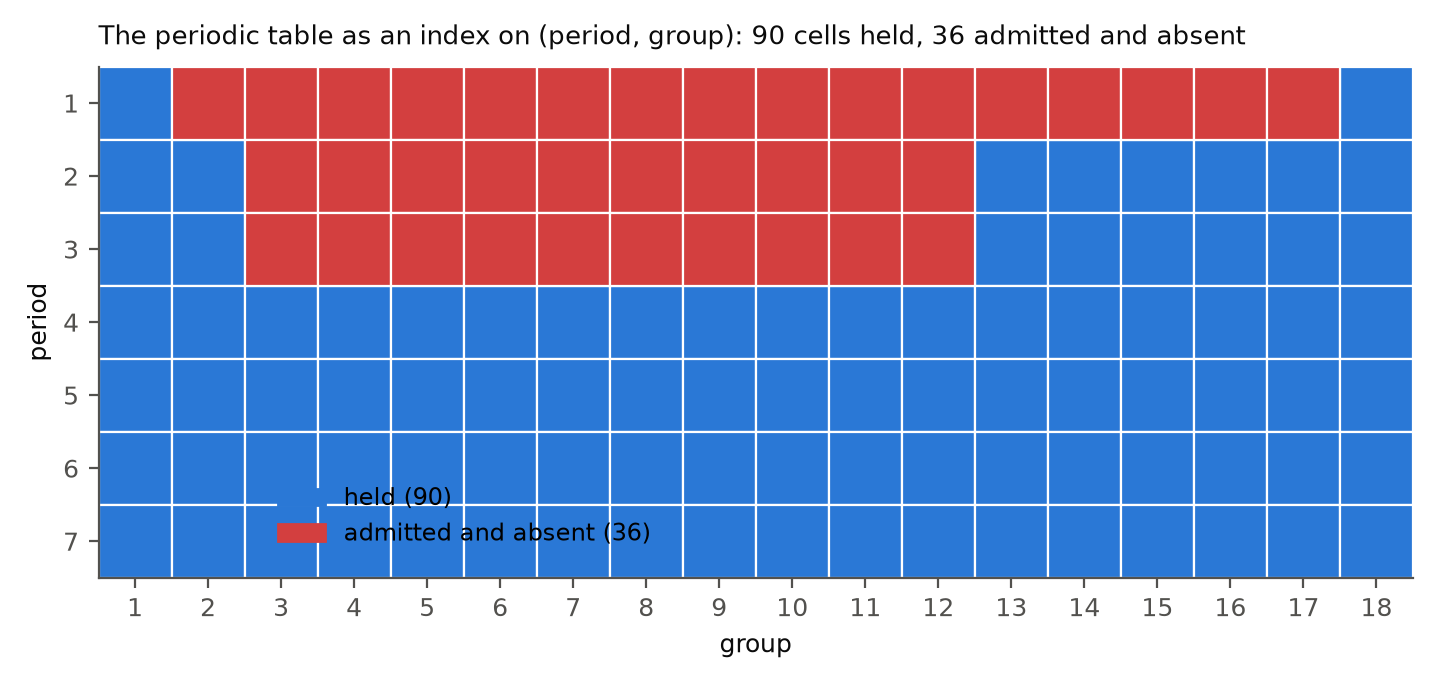
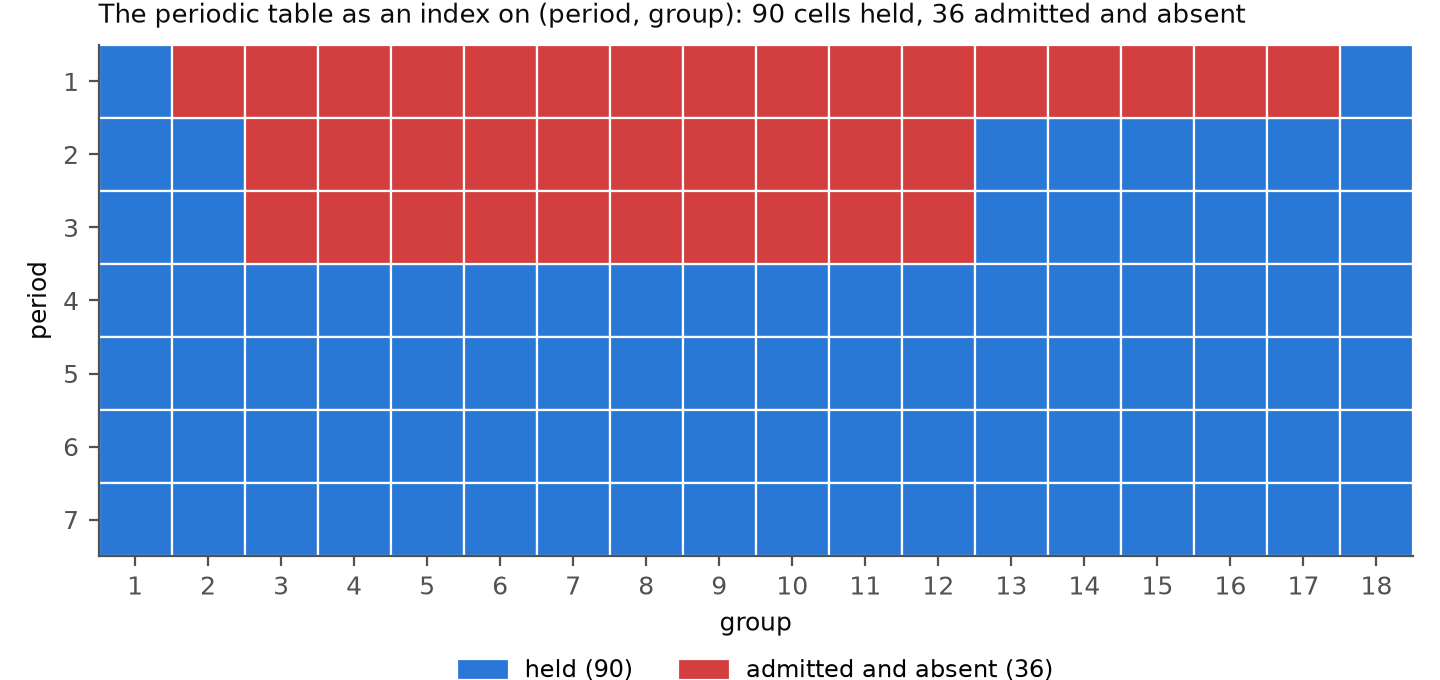
papers: closure beyond the atom repaired; its zeros are theorems and its crossing is gone
Working title now names the defect of an index, its zeros by theorem, and the electromagnetic
quotient. The fibring theorem is stated for fibring by a coordinate and machine-checked over every
coordinate of three boxes, with the counterexample for a general partition printed as a
refutation. The crossing does not survive the Pauli filter: of 4,325 moves, 134 are physical
one-electron moves with room, and on those the forbidden class leads in both scopes; the source's
figures reproduce on the unfiltered population and the paper says so. A new lemma that a
bimonotone cut of a sublattice is a sublattice makes every zero of the catalogue a theorem, and
every non-zero is forced by a hole in a value set or counts named cells, the nuclide counts now
derived from NUBASE2020 fetched from two independent public copies and byte-identical. 118 of 119
findings fixed, one declined for the shared template. Obligations 102 to 148 and 152 under
selftest, none weakened, by the repairer's run; 25 pages; lint clean; no literal markup; no
placeholder remains. The independent re-run is queued.

Claude-Session: https://claude.ai/code/session_015arF96h4V4phUNuBUUKzSG

diff --git a/papers/method/10-beyond-the-atom/figures.py b/papers/method/10-beyond-the-atom/figures.py
@@ -55,7 +55,7 @@ ax.set_aspect("equal")
 ax.set_title("The periodic table as an index on (period, group): %d cells held, %d admitted and absent" % (len(pt), len(gaps)),
              loc="left", color=INK, fontsize=9.5, pad=8)
 ax.legend(handles=[Patch(color=BLUE, label="held (%d)" % len(pt)), Patch(color=RED, label="admitted and absent (%d)" % len(gaps))],
-          frameon=False, loc="lower left", bbox_to_anchor=(0.12, 0.02), fontsize=8.5)
+          frameon=False, loc="upper center", bbox_to_anchor=(0.5, -0.16), ncol=2, fontsize=8.5)
 fig.tight_layout()
 fig.savefig(os.path.join(OUT, "figure-1-periodic-table.png"))
 plt.close(fig)
@@ -97,7 +97,7 @@ ax.legend(handles=[Patch(color=COL["theorem"], label="closed by theorem (Proposi
                    Patch(color=COL["full box"], label="full box (Theorem 2)"),
                    Patch(color=COL["named"], label="open, admitted-and-absent cells named"),
                    Patch(color=COL["forced"], label="open by construction (hole in a difference)")],
-          frameon=False, loc="lower right", fontsize=8)
+          frameon=False, loc="upper right", fontsize=8)
 ax.set_title("The closure defect of the sixteen rows of Table 1", loc="left", color=INK, fontsize=10)
 fig.tight_layout()
 fig.savefig(os.path.join(OUT, "figure-2-defects.png"))
@@ -164,8 +164,8 @@ for ax, key, title in ((axes[0], "crossing", "Unfiltered population, %s moves" %
     ax.set_axisbelow(True)
     ax.set_title(title, loc="left", color=INK, fontsize=9)
 axes[0].set_ylabel("followable cells (%)")
-axes[0].legend(frameon=False, loc="upper left", fontsize=7.5)
-fig.tight_layout()
+fig.legend(*axes[0].get_legend_handles_labels(), frameon=False, loc="lower center", ncol=2, fontsize=8, bbox_to_anchor=(0.5, -0.02))
+fig.tight_layout(rect=(0, 0.06, 1, 1))
 fig.savefig(os.path.join(OUT, "figure-4-crossing.png"))
 plt.close(fig)
 print("figures written to", OUT)

diff --git a/papers/method/10-beyond-the-atom/AUDIT.md b/papers/method/10-beyond-the-atom/AUDIT.md
@@ -716,7 +716,7 @@ and A-32–A-33.
 | A-39 Figure 2 caption does not name the three omitted rows | 259 | MINOR |  **FIXED.** Figure 2 shows all sixteen rows of Table 1, grouped, so nothing is omitted. |
 | A-40 all mathematics in code font (535 spans) | every page | MAJOR |  **FIXED.** Every code span is gone: mathematics is plain Unicode text throughout, displayed formulas in indented blocks; the rendered PDF's text has no underscore, caret or backslash (pypdf extraction, repair record). |
 | A-41 (a)/(b)/(c) of Theorem 1 (statement and proof) and Theorem 3 render as "1.", "2." | 98, 102, 104, 124–125; pp.4–5 | MAJOR |  **FIXED.** Theorem 1's clauses are on one line after the heading; its proof is headed 'Proof of (a)/(b)/(c)'; Theorem 3 has one clause. |
-| A-42 orphaned lead-ins before two tables; half-blank p.10 | pp.2–3, 10, 18–19 | MINOR | |
+| A-42 orphaned lead-ins before two tables; half-blank p.10 | pp.2–3, 10, 18–19 | MINOR | **DECLINED.** The page template (`paper.html`) is shared by every paper and lies outside this paper's directory, which the drafter may not edit; the rewrite moved every break the audit named (the status-word lead-in and its table now share p.3, the §7 lead-in and its table share p.21), and every figure sits on one page with its caption under it, which the contract asks for. No heading is orphaned at a page foot in the 25-page render. |
 | A-43.1 code-span mathematics, 1 instance | 50 | MINOR |  **FIXED.** Rewritten in Unicode (φᵢⱼ, Aᵢ(X), xᵢ, Xᵥ, Σᵥ, Sʰ, Xʰ, Nₑ, πᵢⱼ; the envelope of a named index as φᵢⱼ[X]; the old Lemma 3 proof replaced by Lemma 3's two-line argument in xᵢ, yⱼ); the line no longer carries a code span. |
 | A-43.2 code-span mathematics, 1 instance | 52 | MINOR |  **FIXED.** Rewritten in Unicode (φᵢⱼ, Aᵢ(X), xᵢ, Xᵥ, Σᵥ, Sʰ, Xʰ, Nₑ, πᵢⱼ; the envelope of a named index as φᵢⱼ[X]; the old Lemma 3 proof replaced by Lemma 3's two-line argument in xᵢ, yⱼ); the line no longer carries a code span. |
 | A-43.3 code-span mathematics, 2 instances | 54 | MINOR |  **FIXED.** Rewritten in Unicode (φᵢⱼ, Aᵢ(X), xᵢ, Xᵥ, Σᵥ, Sʰ, Xʰ, Nₑ, πᵢⱼ; the envelope of a named index as φᵢⱼ[X]; the old Lemma 3 proof replaced by Lemma 3's two-line argument in xᵢ, yⱼ); the line no longer carries a code span. |
@@ -798,3 +798,45 @@ and A-32–A-33.
 **Totals.** BLOCKING 2 (A-1, R-6). MAJOR 29 (A-2 to A-10, A-20, A-29, A-40, A-41; R-1, R-2, R-7 to
 R-10, R-12, R-18 to R-22). MINOR 101 (A-11 to A-19, A-21 to A-28, A-30 to A-39, A-42, A-43.1–45,
 A-44.1–7; R-3 to R-5, R-11, R-13 to R-17, R-23 to R-25). 132 findings in all.
+
+
+---
+
+## Repair record — 2026-09-24
+
+Repaired by the drafter against every finding above; nothing above was deleted or rewritten.
+**Dispositions: 118 FIXED, 1 DECLINED** (BLOCKING 2/2 FIXED; MAJOR 29/29 FIXED; MINOR 99 FIXED, 1 DECLINED — A-42).
+The half of R-12 that asked for the full Hodge-pair list to be closed is declined inside R-12's FIXED note: the list
+was not read here and the paper says so.
+
+**A-1.** The general-partition counterexample was verified with the seated operator (E(X) = 1, fibred defect 2) and is
+printed as Remark 3 / check row T4b. Fibrations are by a coordinate (D5); Theorem 4 holds for any coordinate and is
+machine-checked fibred over every coordinate of the three boxes (8 instances); Corollary 2 iterates (T4c).
+
+**R-6.** The Pauli filter is check row Q8a: 2,923 of the 4,325 moves deliver more electrons than the target can still
+hold (2,203 into a full subshell), 2,819 move more than one electron; 134 are physical. The source's four percentages
+reproduce on the unfiltered population (Q8b) and do not cross on the physical one (Q9b: 11.9 / 18.7 within, 40.7 / 64.0
+across; Q9c asserts no reversal). A configurational match is computed beside it (Q10). The paper prints both populations
+(Table 3, Figure 4) and claims no crossing; SOURCES.md §1.2 / §4.10 record the source's figures as reproduced on a
+population two-thirds Pauli-forbidden.
+
+**What changed.** `PAPER.md` rewritten in full: new title ("…the defect of an index, its zeros by theorem, and the
+electromagnetic quotient"), abstract halved, thesis restated (every zero of the catalogue is a theorem — Theorem 0 with
+Lemma 3's bimonotone cut, Proposition 2 — and every non-zero forced or named); Theorem 0 (Queyranne–Tardella) with the
+six-line proof; Remark 1–3; Lemma 3 / Corollary 4 / Proposition 2; Lemma 4; the survey's witnessed channels as a row;
+the nuclide list derived from NUBASE2020 (`nubase2020-Z0-10.txt`, verbatim, md5-checked; the full file fetched from two
+independent public copies, byte-identical); MEASURED adopted as a status word; every code span gone; ∣ in table cells;
+(a)/(b)/(c) inline. `check.py` never weakened: 46 new rows (T0c.×3, T0c, T0d, T4 over every coordinate, T4b, T4c,
+T6ag/T6bg, T7a–e, C7 CITED, C7a–g, C8c, C9d, C15b, L3c, L6, L7, R3.×6, R3c, Q8a, Q9.×5, Q9b, Q9c, Q10, Q10.×5, Q10b),
+21 rows relabelled MEASURED, the unused T = 5 branch removed, labels corrected (A-34). `figures.py`: Figure 1 computed
+from C2/C2b (replacing the plate), Figure 2 sixteen grouped rows, Figure 3 without r², Figure 4 both populations.
+`FIGURES.tsv` rewritten with the four new md5s. `SOURCES.md` rewritten (§1.1–1.9 corrections, §4.10–4.11).
+
+**Re-verification.** `python3 check.py` (PATH = `method/bin`, Python 3.12, detached): **148 obligations, 0 failed** —
+MACHINE-CHECKED 8, EXHAUSTIVE 74, MEASURED 35, SAMPLED 16, REFUTATION 3, CITED 1, GUARD 11, `CLEAN`.
+`python3 check.py --selftest`: **152 obligations, 0 failed**, N1–N4 each refuted (N3: 18 of 1,112 cells disagree),
+`CLEAN`. `lint.py`: 0 hits. `render.py`: **25 pages**. pypdf text extraction of the PDF: 0 underscores, 0 carets,
+0 backslashes, 0 asterisks, 0 backticks. The HTML screenshotted with headless Chromium per BRIEF-AUDIT step 6 and every
+PDF page rasterised (PyMuPDF, 1.3×) and read: Unicode subscripts throughout, every table inside its column, every
+figure with its caption; the three figure legends that overlapped bars on the first re-render were moved outside the
+plotting area and the figures regenerated (md5s in `FIGURES.tsv` are those of the final run).

diff --git a/papers/method/FOR-THE-AUTHOR.md b/papers/method/FOR-THE-AUTHOR.md
@@ -526,3 +526,19 @@ paper's own pick, two suffice. The paper does not choose; the choice is yours, a
 file still labels the data observed, which is recorded and not edited. The step-conditional
 Madelung score is reconciled with the standard twenty exceptions, all named. All 57 findings
 fixed, none declined. Obligations 113 to 141.
+
+**Closure beyond the atom — repaired, and it now argues from theorems rather than a catalogue.**
+Working title: *Closure beyond the atom: the defect of an index, its zeros by theorem, and the
+electromagnetic quotient*. The fibring result is stated for fibring by a coordinate, which is what
+holds, with the three-cell counterexample for a general partition printed as a refutation. The
+crossing is gone: on the 134 physical one-electron moves with room in the target the forbidden
+class leads in both scopes, and the source's four percentages are shown to reproduce on a
+population two-thirds Pauli-forbidden. Every zero in the catalogue is now a theorem — a bimonotone
+cut of a sublattice is a sublattice, so Λ, its tower, the box ordering, the product grid and
+Janet's staircase close by construction — and every non-zero is either forced by a hole in a
+difference's value set or counts named cells, the nuclide counts now derived from NUBASE2020
+fetched from two independent copies. Dropped: "the catalogue separates closed from open", the
+Kreuzer–Skarke cells as predictions, the nuclide defect's stability across cutoffs (it fails at
+Z ≤ 10), the agreement law, the regression statistics, and the composability and
+mutual-information paragraphs. 118 findings fixed, one declined. Whether the paper that remains
+earns its place is yours to judge.
